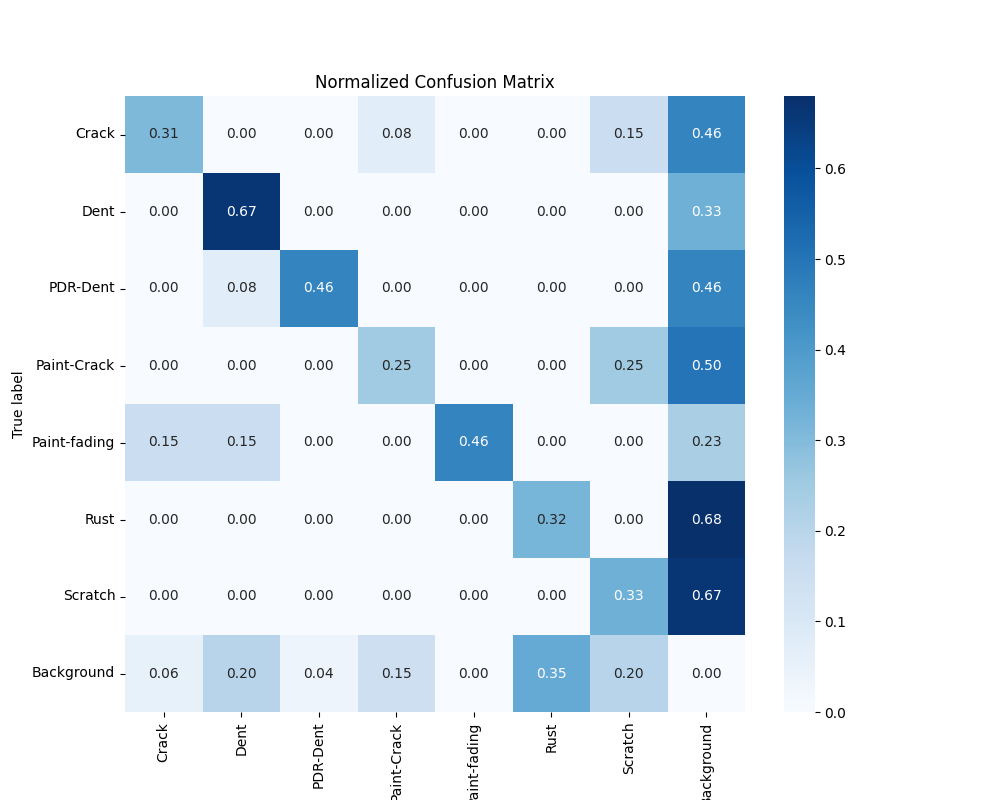
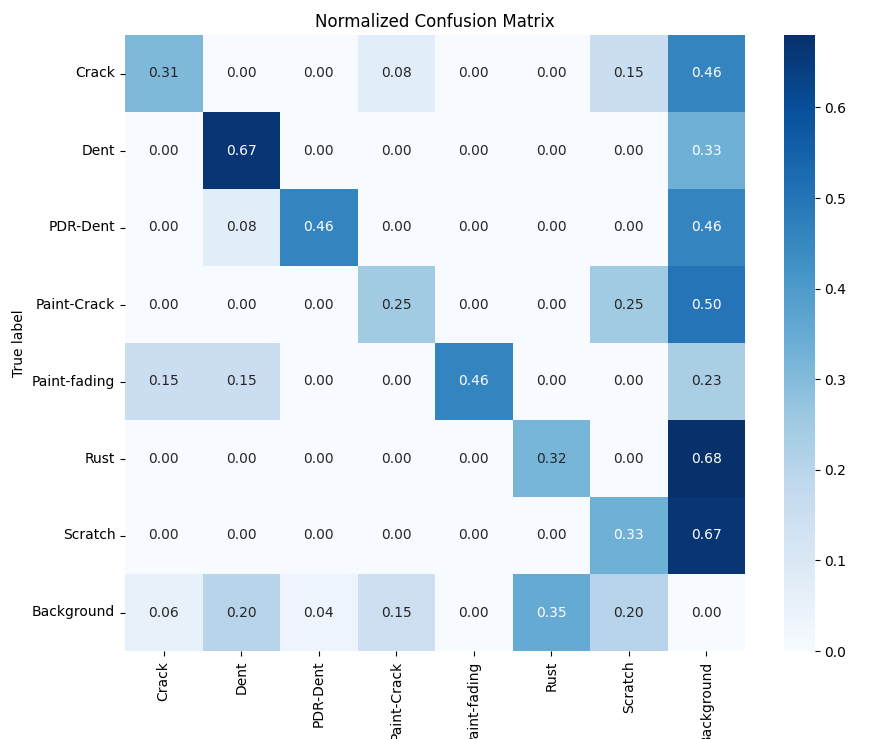
Update README.md with improved documentation

diff --git a/README.md b/README.md
@@ -53,13 +53,18 @@ The following table summarizes the different configurations used during the trai
 Below are the training results for the best model configuration (with data augmentation and batch size of -1). The presented metrics include precision, total loss, mAP50, and a confusion matrix.
 
 - **Precision**: The following graph shows the precision of the model across epochs:
-  ![Precision](img/yolo-precision.png)
+
+   <img src="img/yolo-precision.png" alt="Precision" width="500" />
 - **Total Loss**: The total loss curve provides insights into how the model's loss decreased over training epochs:
-  ![Total Loss](img/yolo-total-loss.png)
+
+   <img src="img/yolo-total-loss.png" alt="Total Loss" width="500" />
 - **mAP50**: The mean Average Precision at 50% IoU (mAP50) is shown below, indicating the model's ability to detect and classify damages:
-  ![mAP50](img/yolo-map50.png)
+
+   <img src="img/yolo-map50.png" alt="mAP50" width="500" />
 - **Confusion Matrix**: The normalized confusion matrix shows the model's performance on the validation dataset, highlighting how well the model differentiates between different damage types:
-  ![Confusion Matrix](img/yolo-cf.png)
+
+   <img src="img/yolo-cf.png" alt="Confusion Matrix" width="500" />
+
 
 ## Conclusion
 
@@ -88,12 +93,14 @@ The following table outlines the configurations used for training the Faster R-C
 Below are the training results for the Faster R-CNN model, showcasing various performance metrics, including mAP50, total loss, and a confusion matrix.
 
 - **mAP50**: The following graph shows the mean Average Precision at 50% IoU (mAP50) across iterations, indicating the model's accuracy in detecting and classifying damages:
-  ![mAP50](img/faster-rcnn-map50.png)
-- **Total Loss**: The total loss curve illustrates how the loss function values changed throughout the training iterations:
-  ![Total Loss](img/faster-rcnn-total-loss.png)
-- **Confusion Matrix**: The normalized confusion matrix represents the model's performance on the validation dataset, showing the accuracy of classification across various damage types:
-  ![Confusion Matrix](img/faster-rcnn-cf.png)
 
+   <img src="img/faster-rcnn-map50.png" alt="mAP50" width="500" />
+- **Total Loss**: The total loss curve illustrates how the loss function values changed throughout the training iterations:
+
+   <img src="img/faster-rcnn-total-loss.png" alt="Total Loss" width="500" />
+- **Confusion Matrix**: The normalized confusion matrix represents the model's performance on the validation dataset, showing the accuracy of classification across various damage types:
+
+   <img src="img/faster-rcnn-cf.png" alt="Confusion Matrix" width="500" />
 
 ## Conclusion
 The Faster R-CNN model faced significant challenges with overfitting, both with and without data augmentation. The primary reason for this is the relatively small size of the dataset, which limited the model's ability to learn effectively without overfitting to the training data. Despite attempts to mitigate overfitting through strategies such as setting a low learning rate, adjusting solver steps, and using a gamma value to control learning rate decay, the model's performance did not improve substantially. This highlights the need for a larger dataset when using the Faster R-CNN architecture for similar tasks.
@@ -103,9 +110,11 @@ The Faster R-CNN model faced significant challenges with overfitting, both with 
 Below are the comparative results between the YOLO and Faster R-CNN models, showing the mAP50 and total loss metrics.
 
 - **mAP50 Comparison**: This graph illustrates the mean Average Precision at 50% IoU (mAP50) over training epochs for both models, highlighting their accuracy in detecting and classifying damages:
-  ![mAP50 Comparison](img/yolo-vs-faster-map50.png)
+
+   <img src="img/yolo-vs-faster-map50.png" alt="mAP50 Comparison" width="500" />
 - **Total Loss Comparison**: The following graph compares the total loss between the YOLO and Faster R-CNN models throughout the training process, demonstrating how the loss decreases as each model improves:
-  ![Total Loss Comparison](img/yolo-vs-faster-total-loss.png)
+
+   <img src="img/yolo-vs-faster-total-loss.png" alt="Total Loss Comparison" width="500" />
 
 
 ## Conclusion
